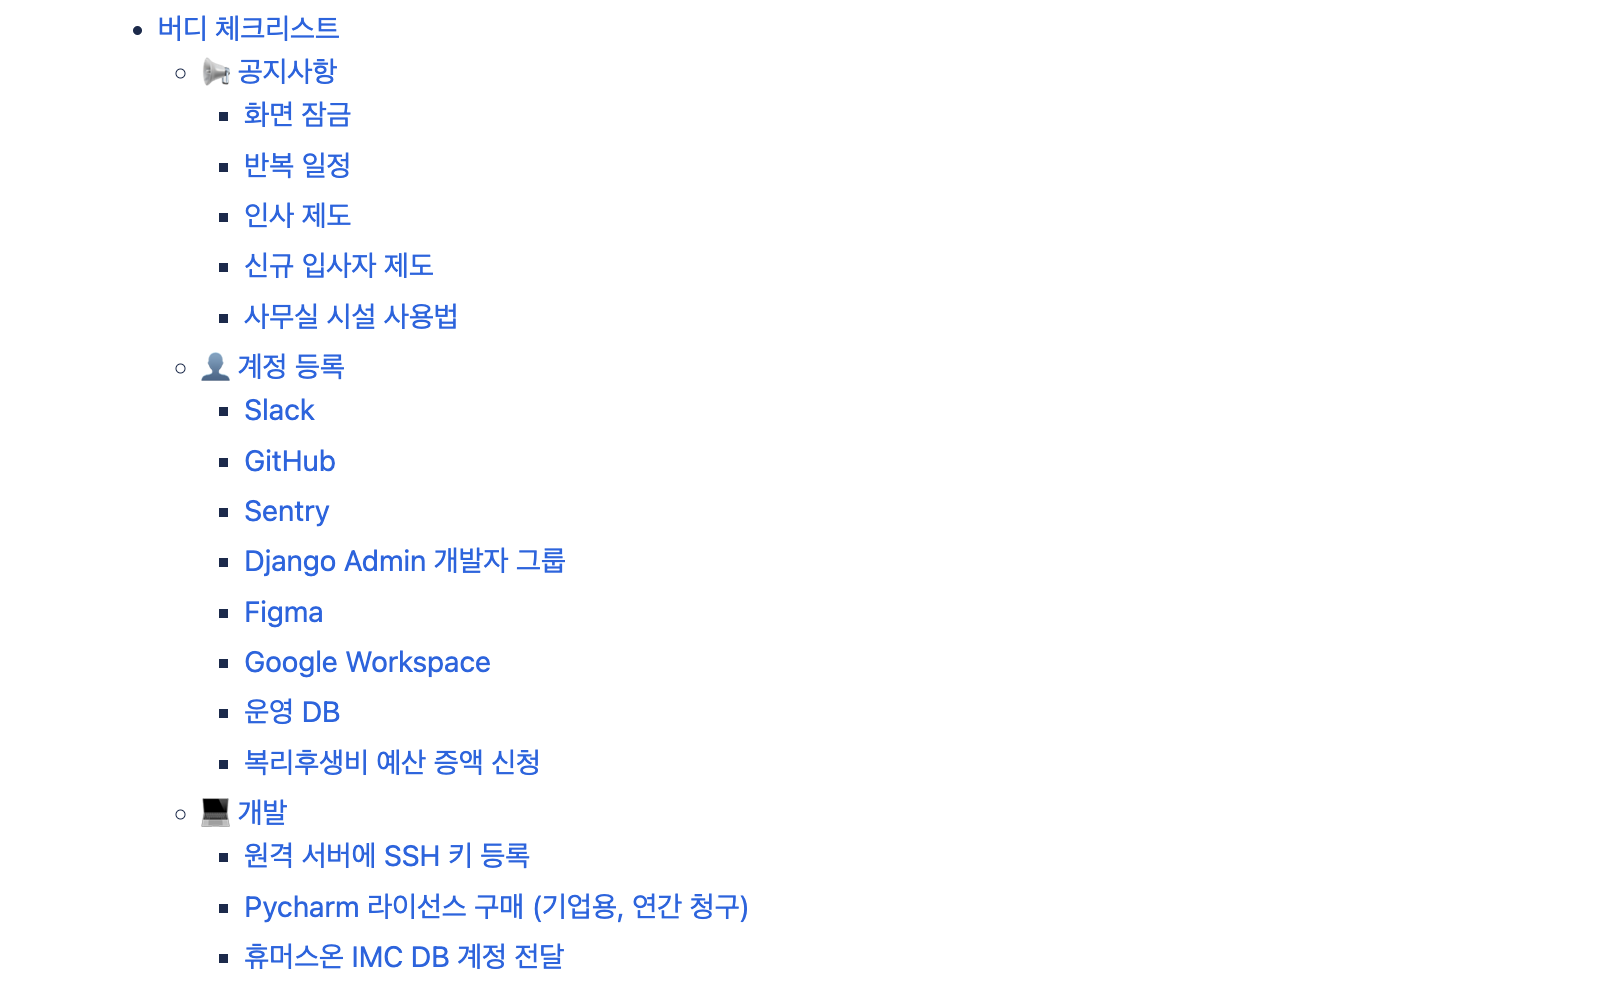
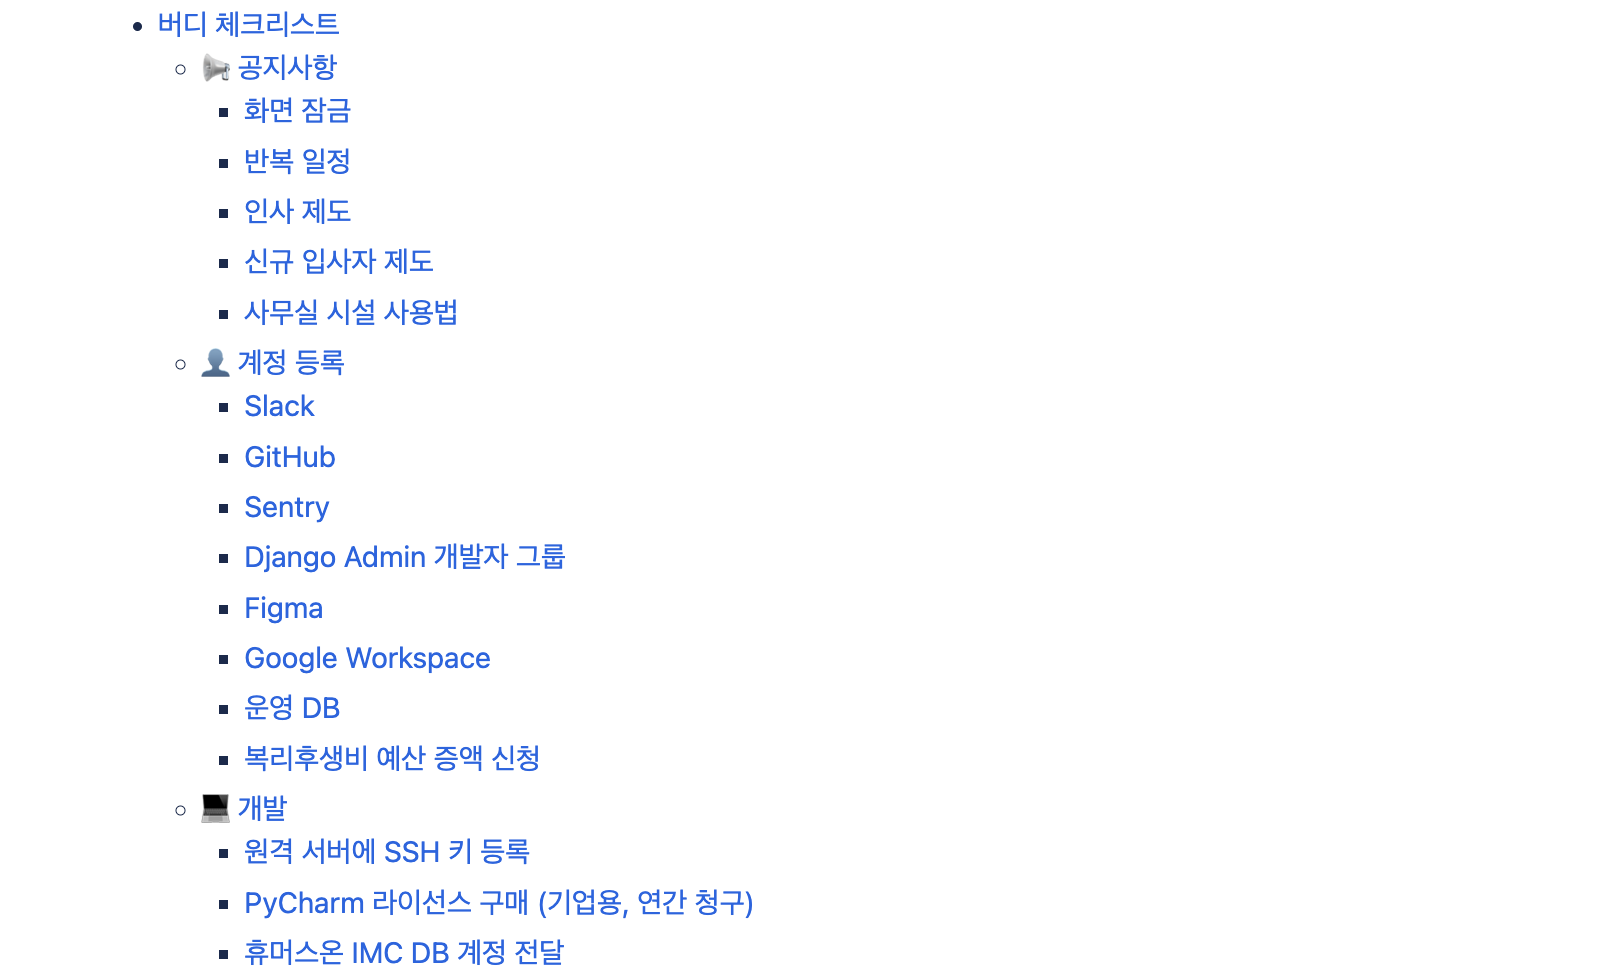
CHG: 사진 교체, 도구 이름 영문으로 작성

Changed region(s): [[0.125, 0.6122, 0.4688, 1.0], [0.0938, 0.0, 0.2812, 0.4286], [0.1562, 0.4592, 0.375, 0.5816]]

diff --git a/_posts/2024-07-05-백엔드-온보딩-수립.md b/_posts/2024-07-05-백엔드-온보딩-수립.md
@@ -32,7 +32,7 @@ description: 백엔드 개발자 온보딩 프로세스 수립 여정
 
 **버디**란, 에잇퍼센트의 모든 신규 입사자에게 배정되는 1:1 챙김이입니다. 같은 팀에 속한 1차 버디와 다른 팀에 속한 2차 버디가 각각 일주일 동안 신규 입사자의 적응을 도와줍니다. Backend 팀에서는 1차 버디(이하 버디)가 환경 설정, 문화 소개, 지식 전달 등 신규 입사자의 온보딩을 주도합니다.
 
-기존 온보딩은 버디가 신규 입사자에게 활동을 즉석에서 제시하고, 신규 입사자는 버디에게 질문하거나 도움을 요청하는 방식으로 진행되었습니다. 버디는 슬랙, 컨플루언스, GitHub 등 다양한 장소에 흩어진 정보를 스스로 모아 해야 할 일을 구성하고 신규 입사자에게 일일이 전달해야 했습니다. 이에 따라 버디의 부담이 커지고, 신규 입사자는 버디에게 의존하는 문제가 발생했습니다.
+기존 온보딩은 버디가 신규 입사자에게 활동을 즉석에서 제시하고, 신규 입사자는 버디에게 질문하거나 도움을 요청하는 방식으로 진행되었습니다. 버디는 Slack, Confluence, GitHub 등 다양한 장소에 흩어진 정보를 스스로 모아 해야 할 일을 구성하고 신규 입사자에게 일일이 전달해야 했습니다. 이에 따라 버디의 부담이 커지고, 신규 입사자는 버디에게 의존하는 문제가 발생했습니다.
 
 <figure style="text-align: center">
   <img src="/images/백엔드-온보딩-수립-old.png" alt="백엔드-온보딩-수립-old" width="450"/>
@@ -66,11 +66,11 @@ description: 백엔드 개발자 온보딩 프로세스 수립 여정
 
 ### 원칙 1: 체계성
 
-온보딩 프로세스는 그 자체로 체계성을 갖추고 문서를 통해 팀에 공유됩니다. 체계적인 온보딩 프로세스는 신규 입사자가 당장 다음에 무엇을 해야 할지 안내합니다. 더 나아가, 신규 입사자는 전반적인 로드맵을 훑어보고 자신이 온보딩 동안 겪을 일을 예측할 수 있습니다. 온보딩 프로세스가 치밀할수록 버디에 대한 의존도가 낮아지고 온보딩 과정이 효율적으로 진행됩니다. 한편, 온보딩 프로세스는 컨플루언스 공개 페이지로 관리됩니다. 이를 통해 팀 전체가 온보딩에 참여할 수 있습니다. 팀원은 온보딩 프로세스 문서를 바탕으로 온보딩 진행 상황을 파악하고, 필요할 때 온보딩 활동 일부를 담당할 수 있습니다. 또한, 온보딩 프로세스 문서는 누구나 수정 가능하므로 신규 입사자의 피드백을 반영하여 최신화됩니다. 궁극적으로, 신규 입사자는 미리 준비된 온보딩 프로세스를 통해 회사에 대한 좋은 첫인상을 받을 수 있습니다.
+온보딩 프로세스는 그 자체로 체계성을 갖추고 문서를 통해 팀에 공유됩니다. 체계적인 온보딩 프로세스는 신규 입사자가 당장 다음에 무엇을 해야 할지 안내합니다. 더 나아가, 신규 입사자는 전반적인 로드맵을 훑어보고 자신이 온보딩 동안 겪을 일을 예측할 수 있습니다. 온보딩 프로세스가 치밀할수록 버디에 대한 의존도가 낮아지고 온보딩 과정이 효율적으로 진행됩니다. 한편, 온보딩 프로세스는 Confluence 공개 페이지로 관리됩니다. 이를 통해 팀 전체가 온보딩에 참여할 수 있습니다. 팀원은 온보딩 프로세스 문서를 바탕으로 온보딩 진행 상황을 파악하고, 필요할 때 온보딩 활동 일부를 담당할 수 있습니다. 또한, 온보딩 프로세스 문서는 누구나 수정 가능하므로 신규 입사자의 피드백을 반영하여 최신화됩니다. 궁극적으로, 신규 입사자는 미리 준비된 온보딩 프로세스를 통해 회사에 대한 좋은 첫인상을 받을 수 있습니다.
 
 ### 원칙 2: 성취감
 
-신규 입사자가 온보딩 프로세스에 주도적으로 참여하고 성취감을 느낄 수 있도록 합니다. 온보딩 프로세스의 활동은 신규 입사자가 수행할 일과 배울 것을 명시합니다. 온보딩 활동 진행도를 시각화하여 신규 입사자는 자신이 완료한 일을 돌아보고 성취감을 느끼게 됩니다. 그리고 온보딩 프로세스는 신규 입사자가 이른 시일 내에 회사 산출물에 기여하도록 유도합니다. 예를 들어 팀원 소개 컨플루언스 페이지에 자신을 추가하거나, GitHub에 코드 리뷰를 남기는 활동을 제안합니다. 신규 입사자는 자신의 역량을 발휘하는 기회를 얻고 팀에 빠르게 적응할 수 있습니다.
+신규 입사자가 온보딩 프로세스에 주도적으로 참여하고 성취감을 느낄 수 있도록 합니다. 온보딩 프로세스의 활동은 신규 입사자가 수행할 일과 배울 것을 명시합니다. 온보딩 활동 진행도를 시각화하여 신규 입사자는 자신이 완료한 일을 돌아보고 성취감을 느끼게 됩니다. 그리고 온보딩 프로세스는 신규 입사자가 이른 시일 내에 회사 산출물에 기여하도록 유도합니다. 예를 들어 팀원 소개 Confluence 페이지에 자신을 추가하거나, GitHub에 코드 리뷰를 남기는 활동을 제안합니다. 신규 입사자는 자신의 역량을 발휘하는 기회를 얻고 팀에 빠르게 적응할 수 있습니다.
 
 ### 원칙 3: 부담 줄이기
 
@@ -82,14 +82,14 @@ description: 백엔드 개발자 온보딩 프로세스 수립 여정
 
 ### 1. 체크리스트
 
-온보딩 체크리스트는 신규 입사자와 버디가 각각 온보딩 중 반드시 수행해야 할 활동을 체계적으로 나열한 문서입니다. 주로 계정 등록, 개발 환경 구축, 보안 설정 등 업무 시작에 기초적인 작업을 포함합니다. 체크리스트의 또 다른 효과는 버디의 시간 절약입니다. 신규 입사자의 기초 설정 과정에서 버디를 거치는 경우가 많은데, 버디도 신규 입사자 설정을 자주 하지 않다 보니 실수할 수 있습니다. 체크리스트에 PyCharm 라이선스 구매, SSH 공개키 등록 같은 자주 막히던 작업에 대한 요령을 기재했습니다. 그리고 매번 신규 입사자에게 개별적으로 전해주던 슬랙 메시지, 컨플루언스 페이지, 참고 웹 페이지 링크를 한 곳에 모아두어 신규 입사자가 필요한 정보를 쉽게 찾을 수 있도록 합니다.
+온보딩 체크리스트는 신규 입사자와 버디가 각각 온보딩 중 반드시 수행해야 할 활동을 체계적으로 나열한 문서입니다. 주로 계정 등록, 개발 환경 구축, 보안 설정 등 업무 시작에 기초적인 작업을 포함합니다. 체크리스트의 또 다른 효과는 버디의 시간 절약입니다. 신규 입사자의 기초 설정 과정에서 버디를 거치는 경우가 많은데, 버디도 신규 입사자 설정을 자주 하지 않다 보니 실수할 수 있습니다. 체크리스트에 PyCharm 라이선스 구매, SSH 공개키 등록 같은 자주 막히던 작업에 대한 요령을 기재했습니다. 그리고 매번 신규 입사자에게 개별적으로 전해주던 Slack 메시지, Confluence 페이지, 참고 웹 페이지 링크를 한 곳에 모아두어 신규 입사자가 필요한 정보를 쉽게 찾을 수 있도록 합니다.
 
 <figure style="text-align: center">
   <img src="/images/백엔드-온보딩-수립-checklist-recruit.png" alt="백엔드-온보딩-수립-checklist-recruit" width="800"/>
   <figcaption>온보딩 체크리스트 문서 목차 - 입사자</figcaption>
   <img src="/images/백엔드-온보딩-수립-checklist-buddy.png" alt="백엔드-온보딩-수립-checklist-buddy" width="800"/>
   <figcaption>온보딩 체크리스트 문서 목차 - 버디</figcaption>
-  <img src="/images/백엔드-온보딩-수립-pycharm.png" alt="백엔드-온보딩-수립-pycharm" width="800"/>
+  <img src="/images/백엔드-온보딩-수립-checklist-pycharm.png" alt="백엔드-온보딩-수립-checklist-pycharm" width="800"/>
   <figcaption>버디 체크리스트 예시</figcaption>
 </figure>
 
@@ -132,10 +132,10 @@ description: 백엔드 개발자 온보딩 프로세스 수립 여정
 - 버디에 대한 의존도를 줄인 덕분에, 버디인 제가 4일 차에 자리를 비운 상황에서도 온보딩은 순조롭게 흘러갔습니다.
 - 온보딩을 향한 팀 전반적인 관심도 높아져, 찬얼 님께서 시간을 내어 코어뱅킹 도메인 기초 지식을 강의하기도 했습니다.
   <span style="color:gray">_찬얼 님의 설명이 궁금하다면? 👉 [코어뱅킹 우당탕탕 정산 자동화 개발](https://8percent.github.io/2023-07-21/우당탕탕-정산-자동화-개발/)_</span>
-- 온보딩 동안 신규 입사자분들께서 로컬 개발 환경 구축 가이드, 스타일 가이드, 온보딩 프로세스 문서를 개선하고 신규 입사자를 위한 용어 사전을 만드는 등 팀에 적극적으로 기여하셨습니다.
+- 온보딩 동안 신규 입사자분들께서 로컬 개발 환경 구축 가이드, [스타일 가이드](https://github.com/8percent/styleguide), 온보딩 프로세스 문서를 개선하고 신규 입사자를 위한 용어 사전을 만드는 등 팀에 적극적으로 기여하셨습니다.
 - 두 분 다 체크리스트와 데일리 미션을 4일 만에 모두 완료하였으며, 특히 송희 님께서는 입사 다음 날 노트북을 새로 지급받는 위기를 겪으셨음에도 불구하고 온보딩 일정에 차질이 없었습니다. 이는 온보딩 프로세스의 양이 적절함을 보여주는 사례입니다.
 
-온보딩 프로세스의 발전은 계속됩니다. 수립 과정에서 놓친 부분과 첫 운영 경험을 바탕으로 정리한 개선 사항은 다음과 같습니다.
+온보딩 프로세스의 발전은 계속됩니다. 수립 중 놓친 부분과 첫 운영 경험에서 가려낸 개선 사항은 다음과 같습니다.
 
 - **신규 입사자의 피드백 모으고 반영하기**
   신규 입사자가 아닌 버디 관점에서 설계된 온보딩 프로세스의 한계를 극복하기 위해, 신규 입사자의 온보딩 경험을 정리하고 온보딩 프로세스를 보완하는 시스템을 구축합니다.
@@ -156,4 +156,4 @@ description: 백엔드 개발자 온보딩 프로세스 수립 여정
 >
 > 그리고 온보딩 전달 사항에 별점이 있는 것도 너무 좋았어요. 사실 지금도 온보딩 전달 사항 문서는 종종 찾아 읽을 정도로 자세한데요. 온보딩 기간에는 중요도가 제일 높은 필수 내용들 위주로 파악했고, 요즘에는 로그 검색 등 업무 중에 필요한 내용들을 확인하고 있어요. 보통 입사 초기에 너무 많은 내용을 접하다 보니 버디 분께서 얘기해주셨던 내용들을 잊어버리기도 하잖아요. 중요한 내용들과 세부적인 내용들이 분리되어 있어 파악이 용이했습니다.
 >
-> 돌이켜보면 이외에도 온보딩 기간에 기여를 많이 할 수 있어서 재미있었어요. 온보딩 프로세스가 엄격하게 정해진 내용보다는 유연하게 열려 있는 내용이 많았는데, 그렇기 때문에 제가 생각하는 더 좋은 방법으로 보완할 수 있었던 것 같아요. 저는 저 이후의 신규 입사자들을 위한 온보딩 용어 사전도 만들 수 있었고, 코드 컨벤션에 대한 내용들도 최근 버전으로 업데이트도 했었네요. 궁금하시면 오픈소스로 운영되는 저희 팀의 스타일 가이드 문서를 참고해 주세요. 여러분들의 기여 기다리고 있겠습니다!
+> 돌이켜보면 이외에도 온보딩 기간에 기여를 많이 할 수 있어서 재미있었어요. 온보딩 프로세스가 엄격하게 정해진 내용보다는 유연하게 열려 있는 내용이 많았는데, 그렇기 때문에 제가 생각하는 더 좋은 방법으로 보완할 수 있었던 것 같아요. 저는 저 이후의 신규 입사자들을 위한 온보딩 용어 사전도 만들 수 있었고, 코드 컨벤션에 대한 내용들도 최근 버전으로 업데이트도 했었네요. 궁금하시면 오픈소스로 운영되는 저희 팀의 [스타일 가이드](https://github.com/8percent/styleguide) 문서를 참고해 주세요. 여러분들의 기여 기다리고 있겠습니다!
